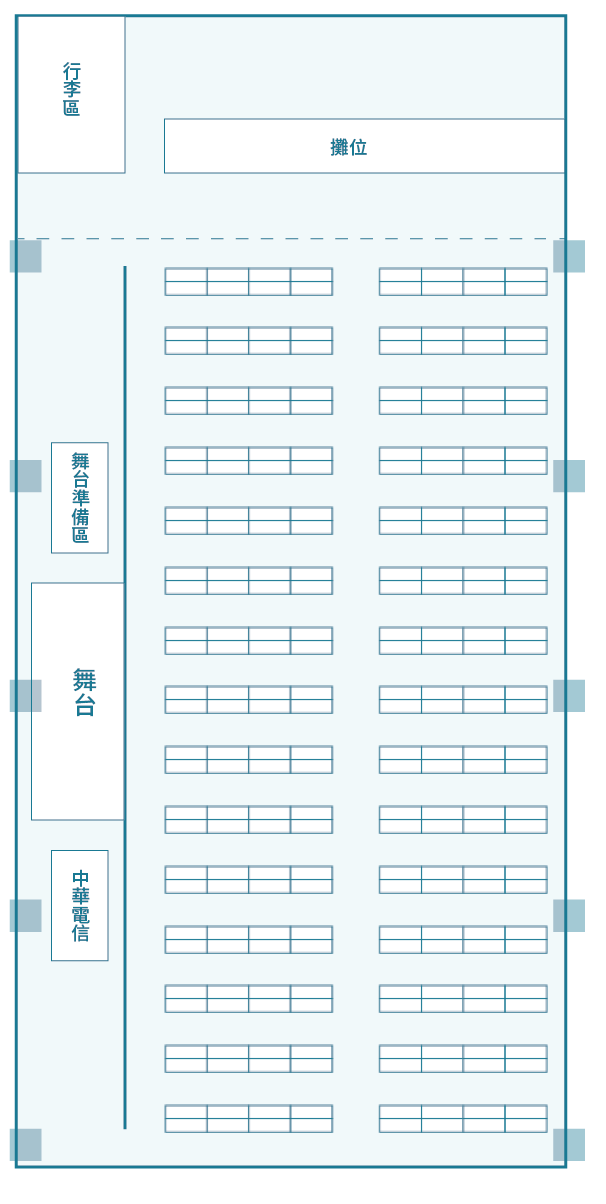
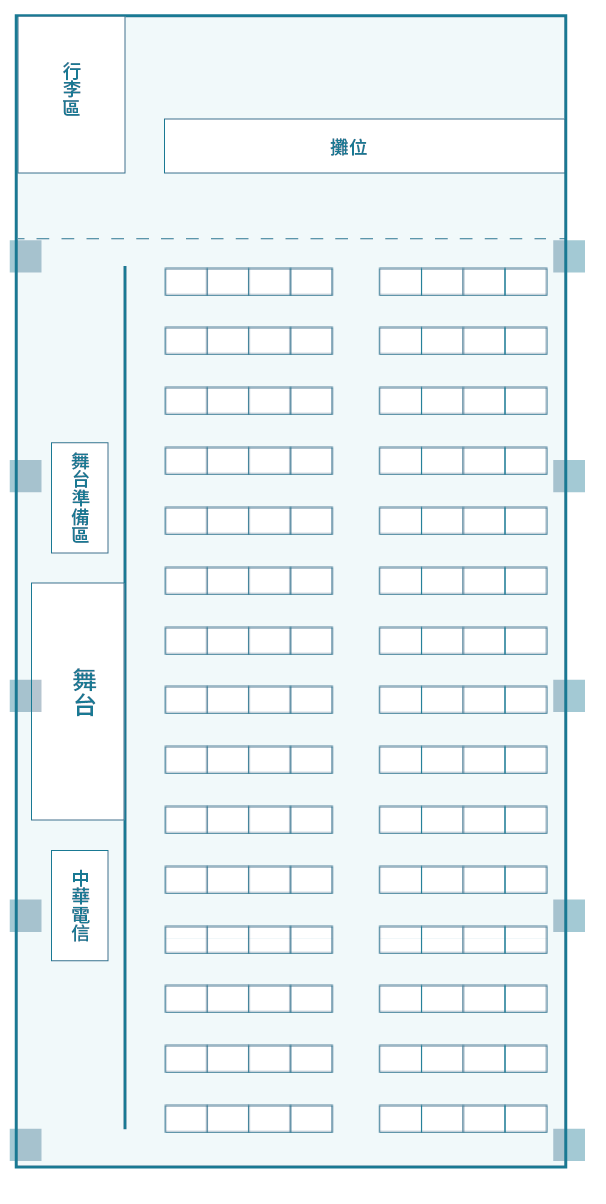
修改地圖為120桌

diff --git a/src/appconfig.js b/src/appconfig.js
@@ -20,27 +20,9 @@ const appconfig = {
     table_coor: null // added below
   }
 }
-/* eslint-disable */
-//               1    2    3    4    5    6    7    8
-const x_coor = [295, 341, 384, 430, 523, 569, 614, 660]
-const y_coor = [
-            293,  293  + 16,  // 1
-            356,  356  + 16,  // 2
-            421,  421  + 16,  // 3
-            484,  484  + 16,  // 4
-            549,  549  + 16,  // 5
-            613,  613  + 16,  // 6
-            677,  677  + 16,  // 7
-            740,  740  + 16,  // 8
-            804,  804  + 16,  // 9
-            868,  868  + 16,  // 10
-            932,  932  + 16,  // 11
-            996,  996  + 16,  // 12
-            1060, 1060 + 16,  // 13
-            1124, 1124 + 16,  // 14
-            1188, 1188 + 16   // 15
-          ]
-/* eslint-enable */
+
+const coorX = [295, 341, 384, 430, 523, 569, 614, 660]
+const coorY = [301, 364, 429, 492, 557, 621, 685, 748, 812, 876, 940, 1004, 1068, 1132, 1196]
 
 // Generate table coordinate
 function generateTableCoor (xs, ys) {
@@ -60,6 +42,6 @@ function generateTableCoor (xs, ys) {
   }
   return tableCoor
 }
-appconfig.map.table_coor = generateTableCoor(x_coor, y_coor)
+appconfig.map.table_coor = generateTableCoor(coorX, coorY)
 
 export default appconfig
